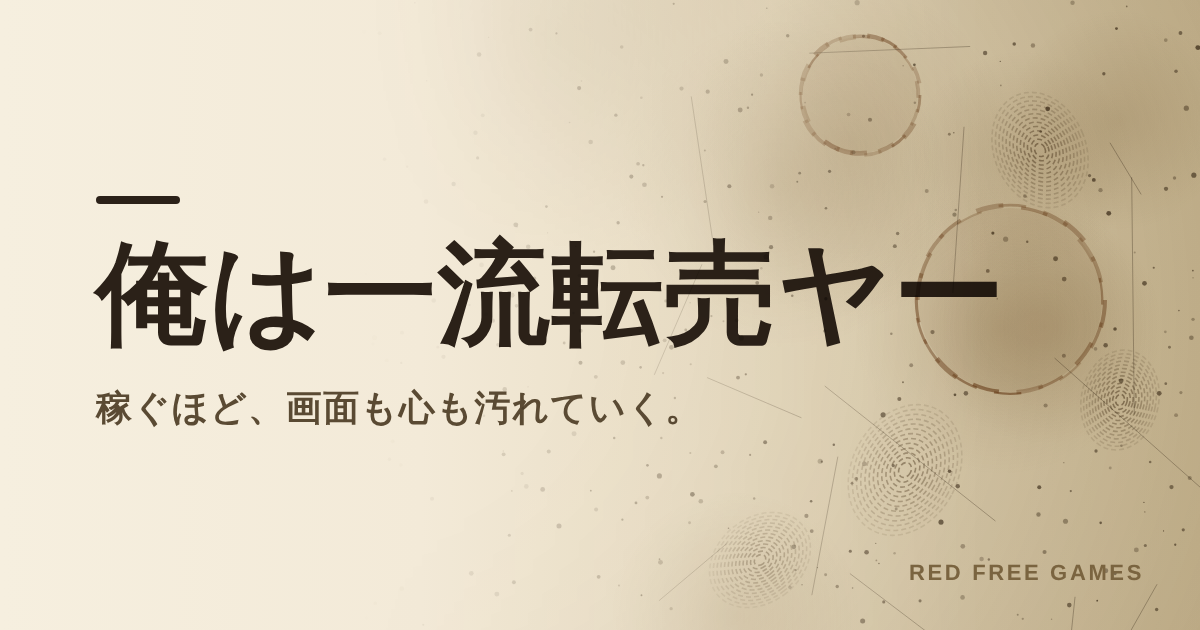
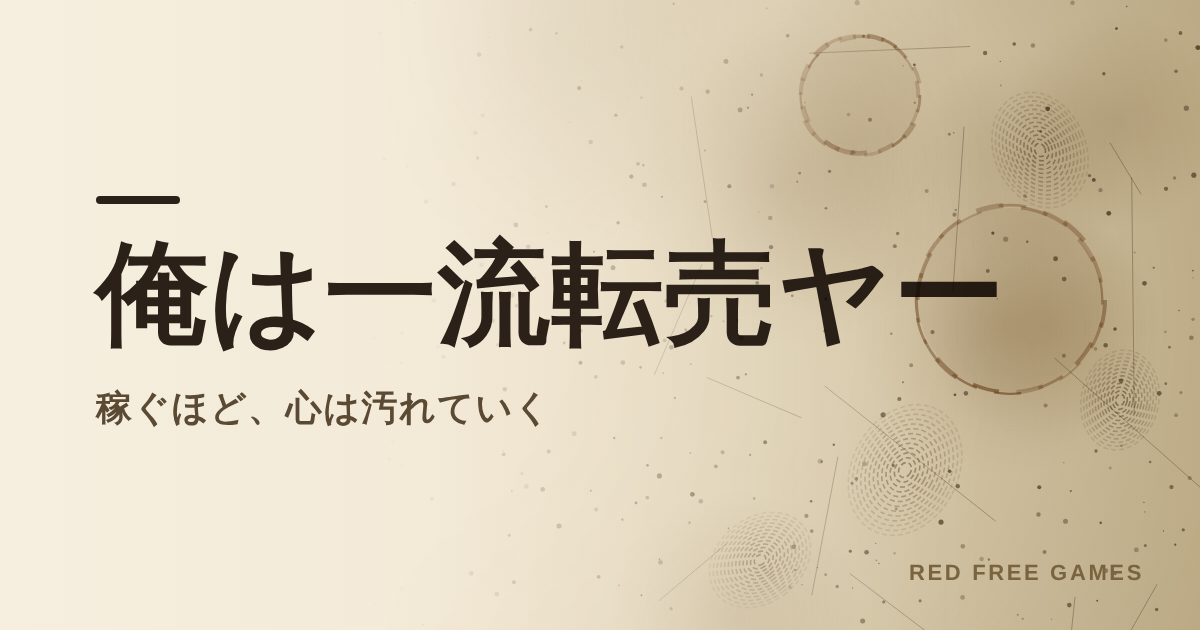
俺は一流転売ヤー：キャッチコピーを「稼ぐほど、心は汚れていく」に統一
- OG画像、共有時の説明文、シェア文、トップページの紹介を同じ言葉に

Claude-Session: https://claude.ai/code/session_011PfhddheorrmP2uYQfTNY9

Changed region(s): [[0.2158, 0.6032, 0.555, 0.6937]]

diff --git a/ichiryu-tenbaiya/index.html b/ichiryu-tenbaiya/index.html
@@ -4,9 +4,9 @@
 <meta charset="UTF-8">
 <meta name="viewport" content="width=device-width, initial-scale=1.0, maximum-scale=1.0, user-scalable=no">
 <title>俺は一流転売ヤー</title>
-<meta name="description" content="借金50万円を、転売で返せ。限定品を買い占めて高値で売りさばくほど、画面も心も少しずつ汚れていく。">
+<meta name="description" content="借金50万円を、転売で返せ。限定品を買い占めて、高値で売りさばけ。稼ぐほど、心は汚れていく。">
 <meta property="og:title" content="俺は一流転売ヤー">
-<meta property="og:description" content="借金50万円を、転売で返せ。限定品を買い占めて高値で売りさばくほど、画面も心も少しずつ汚れていく。">
+<meta property="og:description" content="借金50万円を、転売で返せ。限定品を買い占めて、高値で売りさばけ。稼ぐほど、心は汚れていく。">
 <meta property="og:type" content="website">
 <meta property="og:url" content="https://red-freegames.github.io/ichiryu-tenbaiya/">
 <meta property="og:site_name" content="RED FREE GAMES">
@@ -1171,7 +1171,7 @@ function showImageModal(){
 }
 const GAME_URL = "https://red-freegames.github.io/ichiryu-tenbaiya/";
 function shareUrl(){
-  const text = "【俺は一流転売ヤー】第" + S.week + "週、累計利益" + fmt(S.profit) + "円。\n現在の称号は「" + currentTitle() + "」でした。\n稼げば稼ぐほど、画面も心も汚れていくゲーム。\n#俺は一流転売ヤー #無料ゲーム";
+  const text = "【俺は一流転売ヤー】第" + S.week + "週、累計利益" + fmt(S.profit) + "円。\n現在の称号は「" + currentTitle() + "」でした。\n稼ぐほど、心は汚れていく。\n#俺は一流転売ヤー #無料ゲーム";
   return "https://twitter.com/intent/tweet?text=" + encodeURIComponent(text) + "&url=" + encodeURIComponent(GAME_URL);
 }
 /* ================= モーダルとエンディング ================= */

diff --git a/index.html b/index.html
@@ -81,7 +81,7 @@ if (GA_ID && /\.github\.io$/.test(location.hostname)) {
 const GAMES = [
   {
     title: "俺は一流転売ヤー",
-    sub: "稼ぐほど画面も心も汚れていく転売シミュレーション",
+    sub: "稼ぐほど、心は汚れていく転売シミュレーション",
     url: "https://red-freegames.github.io/ichiryu-tenbaiya/",
     image: "https://red-freegames.github.io/ichiryu-tenbaiya/og.png?v=2",
     desc: "借金50万円を返すため、転売ヤーになった。限定品を買い占め、相場と噂を読んで高値で売りさばけ。ただし稼げば稼ぐほど、画面も言葉も少しずつ汚れていく。気づいたときには、もう遅い。",
